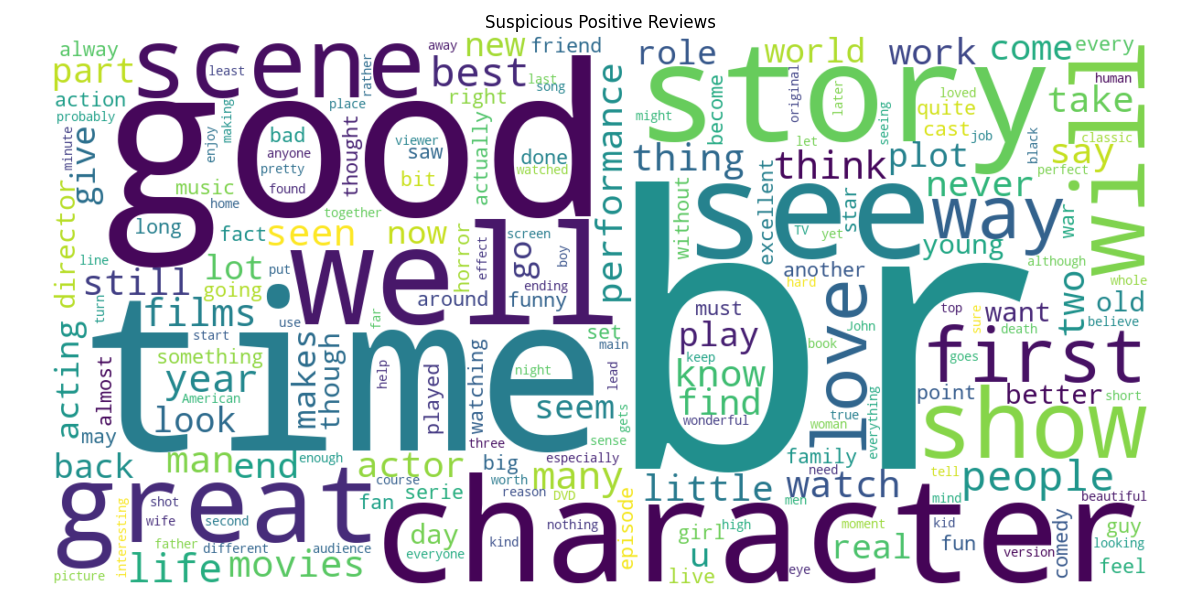
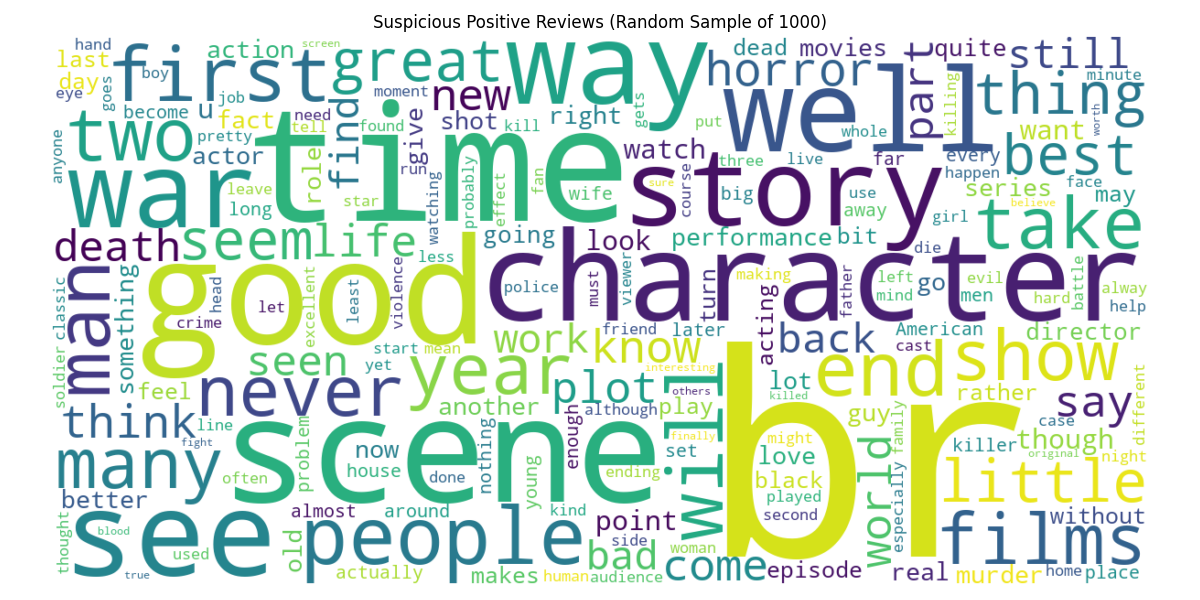
save before pull

diff --git a/src/suspicious_wordcloud.py b/src/suspicious_wordcloud.py
@@ -7,9 +7,7 @@ from wordcloud import WordCloud, STOPWORDS
 REVIEWS_PATH = Path("data/raw/imdb_reviews.csv")
 LEXICON_PATH = Path("data/raw/Data_Set_S1.txt")
 FIGURES_DIR = Path("figures")
-
-POS_MEAN = 6.12
-NEG_MEAN = 5.75
+PROCESSED_PATH = Path("data/processed/imdb_reviews_with_scores.csv")
 
 
 def tokenize(text):
@@ -46,28 +44,66 @@ def review_score(text, lexicon):
     return sum(scores) / len(scores)
 
 
+def make_wordcloud(text, output_path, title, stopwords):
+    wc = WordCloud(
+        width=1200,
+        height=600,
+        background_color="white",
+        stopwords=stopwords,
+        collocations=False
+    ).generate(text)
+
+    plt.figure(figsize=(12, 6))
+    plt.imshow(wc, interpolation="bilinear")
+    plt.axis("off")
+    plt.title(title)
+    plt.tight_layout()
+    plt.savefig(output_path)
+    plt.close()
+
+
 def main():
     FIGURES_DIR.mkdir(parents=True, exist_ok=True)
+    PROCESSED_PATH.parent.mkdir(parents=True, exist_ok=True)
 
     df = pd.read_csv(REVIEWS_PATH)
-    lexicon = load_lexicon(LEXICON_PATH)
 
     required_cols = {"sentiment", "review"}
     missing = required_cols - set(df.columns)
     if missing:
         raise ValueError(f"Missing columns in imdb_reviews.csv: {missing}")
 
+    lexicon = load_lexicon(LEXICON_PATH)
+
     df["happiness"] = df["review"].apply(lambda x: review_score(x, lexicon))
     df = df.dropna(subset=["happiness"]).copy()
 
-    suspicious_neg = df[(df["sentiment"] == "neg") & (df["happiness"] > POS_MEAN)]
-    suspicious_pos = df[(df["sentiment"] == "pos") & (df["happiness"] < NEG_MEAN)]
+    pos_mean = df[df["sentiment"] == "pos"]["happiness"].mean()
+    neg_mean = df[df["sentiment"] == "neg"]["happiness"].mean()
+
+    print("Positive mean:", pos_mean)
+    print("Negative mean:", neg_mean)
+
+    suspicious_neg = df[(df["sentiment"] == "neg") & (df["happiness"] > pos_mean)].copy()
+    suspicious_pos = df[(df["sentiment"] == "pos") & (df["happiness"] < neg_mean)].copy()
 
     print("Suspicious negative:", len(suspicious_neg))
     print("Suspicious positive:", len(suspicious_pos))
 
-    neg_text = " ".join(suspicious_neg["review"].astype(str))
-    pos_text = " ".join(suspicious_pos["review"].astype(str))
+    print("\nSample suspicious negative reviews:")
+    print(suspicious_neg[["sentiment", "happiness", "review"]].head(5))
+
+    print("\nSample suspicious positive reviews:")
+    print(suspicious_pos[["sentiment", "happiness", "review"]].head(5))
+
+    sample_size_neg = min(1000, len(suspicious_neg))
+    sample_size_pos = min(1000, len(suspicious_pos))
+
+    suspicious_neg_sample = suspicious_neg.sample(n=sample_size_neg, random_state=42) if sample_size_neg > 0 else suspicious_neg
+    suspicious_pos_sample = suspicious_pos.sample(n=sample_size_pos, random_state=42) if sample_size_pos > 0 else suspicious_pos
+
+    print("\nSampled suspicious negative reviews:", len(suspicious_neg_sample))
+    print("Sampled suspicious positive reviews:", len(suspicious_pos_sample))
 
     stopwords = set(STOPWORDS)
     stopwords.update([
@@ -75,47 +111,34 @@ def main():
         "get", "got", "made", "make", "much", "even"
     ])
 
-    if len(suspicious_neg) > 0:
-        wc_neg = WordCloud(
-            width=1200,
-            height=600,
-            background_color="white",
-            stopwords=stopwords,
-            collocations=False
-        ).generate(neg_text)
-
-        plt.figure(figsize=(12, 6))
-        plt.imshow(wc_neg, interpolation="bilinear")
-        plt.axis("off")
-        plt.title("Suspicious Negative Reviews")
-        plt.tight_layout()
-        plt.savefig(FIGURES_DIR / "suspicious_negative_wordcloud.png")
-        plt.close()
+    if len(suspicious_neg_sample) > 0:
+        neg_text = " ".join(suspicious_neg_sample["review"].astype(str))
+        make_wordcloud(
+            neg_text,
+            FIGURES_DIR / "suspicious_negative_wordcloud.png",
+            "Suspicious Negative Reviews (Random Sample of 1000)",
+            stopwords
+        )
     else:
         print("No suspicious negative reviews found.")
 
-    if len(suspicious_pos) > 0:
-        wc_pos = WordCloud(
-            width=1200,
-            height=600,
-            background_color="white",
-            stopwords=stopwords,
-            collocations=False
-        ).generate(pos_text)
-
-        plt.figure(figsize=(12, 6))
-        plt.imshow(wc_pos, interpolation="bilinear")
-        plt.axis("off")
-        plt.title("Suspicious Positive Reviews")
-        plt.tight_layout()
-        plt.savefig(FIGURES_DIR / "suspicious_positive_wordcloud.png")
-        plt.close()
+    if len(suspicious_pos_sample) > 0:
+        pos_text = " ".join(suspicious_pos_sample["review"].astype(str))
+        make_wordcloud(
+            pos_text,
+            FIGURES_DIR / "suspicious_positive_wordcloud.png",
+            "Suspicious Positive Reviews (Random Sample of 1000)",
+            stopwords
+        )
     else:
         print("No suspicious positive reviews found.")
 
-    df.to_csv("data/processed/imdb_reviews_with_scores.csv", index=False)
+    df.to_csv(PROCESSED_PATH, index=False)
 
-    print("Saved completed.")
+    print("\nSaved:")
+    print(PROCESSED_PATH)
+    print(FIGURES_DIR / "suspicious_negative_wordcloud.png")
+    print(FIGURES_DIR / "suspicious_positive_wordcloud.png")
 
 
 if __name__ == "__main__":
